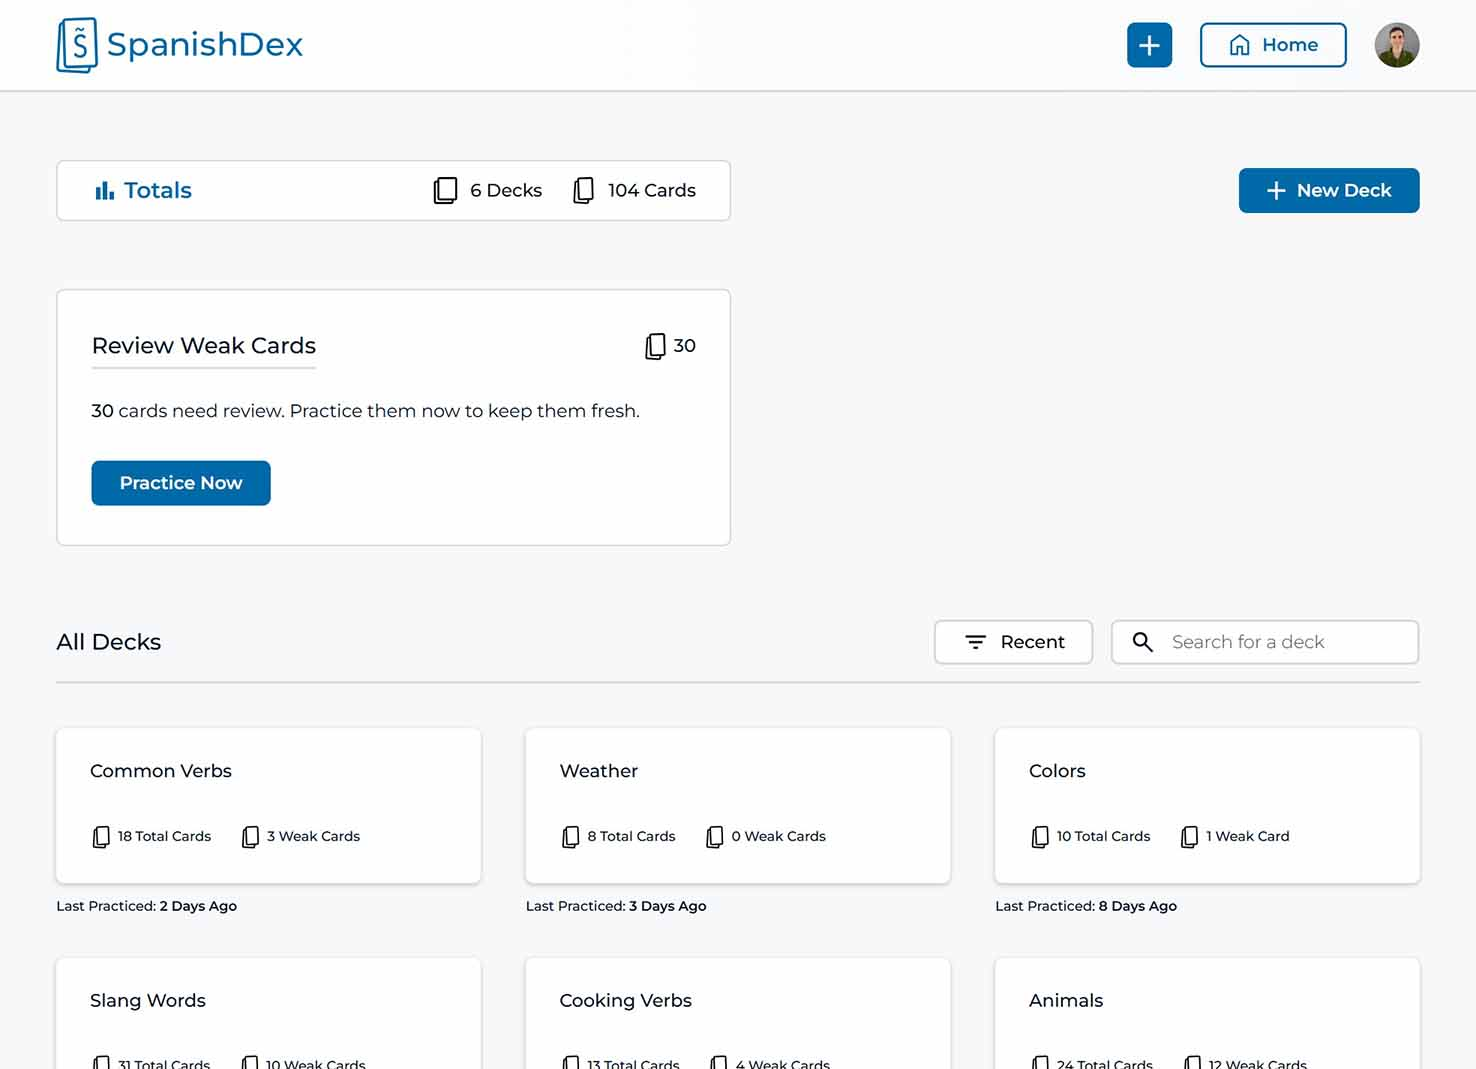
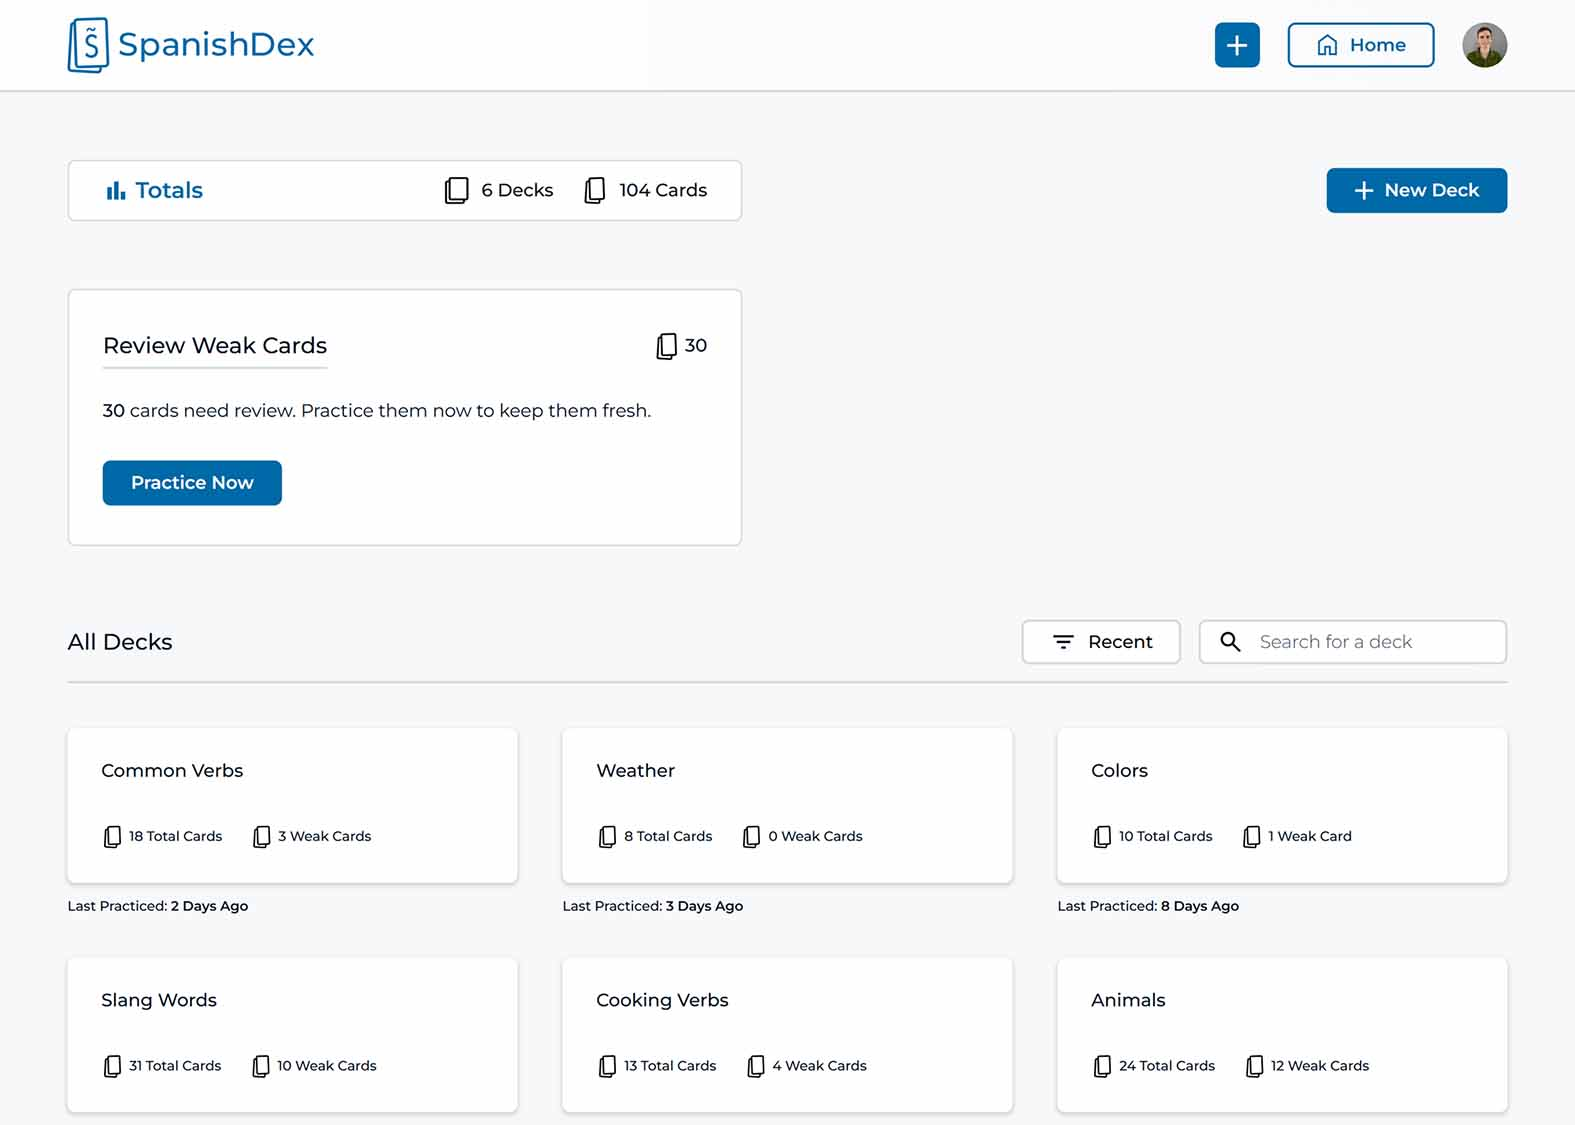
Updated and reduced the size of the homepage pictures

diff --git a/app/(with-homepage-header)/page.jsx b/app/(with-homepage-header)/page.jsx
@@ -47,7 +47,7 @@ export default function Homepage() {
             SpanishDex keeps track of the last time you practiced a word, and it remembers whether or not 
             you got the word wrong. It uses this information to determine the best time for you 
             to review the word again, which is usually just as the word is disappearing from your memory. 
-            This a scientifically proven way to better retain information.
+            This is a scientifically proven way to retain information better.
           </p>
           <p>
             Just create your decks and add the cards, and let SpanishDex do the rest of the work for you!
